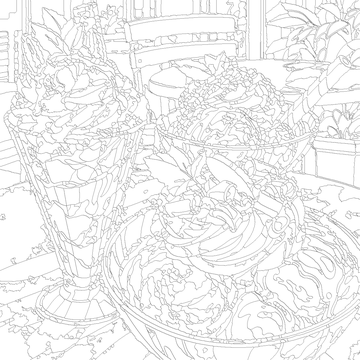
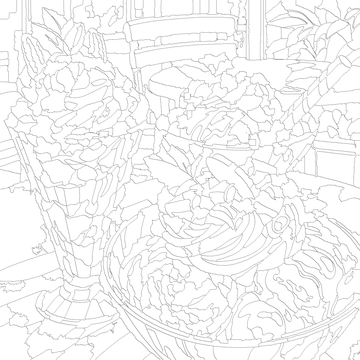
Nivel fácil: ~600 zonas por dibujo

diff --git a/tools/convert.py b/tools/convert.py
@@ -1,6 +1,6 @@
 """Convierte una ilustración en un dibujo "pintar por números" para la app.
 
-Uso: .venv/bin/python convert.py imagen.png salida_id [--colors 140] [--size 1200] [--min-area 60]
+Uso: .venv/bin/python convert.py imagen.png salida_id [--colors 140] [--size 1200] [--min-area 450]
 
 Genera en ../catalog/<salida_id>/:
   regions.png  mapa de zonas (id = R*256 + G)
@@ -16,8 +16,8 @@ ap = argparse.ArgumentParser()
 ap.add_argument('src'); ap.add_argument('name')
 ap.add_argument('--colors', type=int, default=140)
 ap.add_argument('--size', type=int, default=1200)
-ap.add_argument('--min-area', type=int, default=60)
-ap.add_argument('--min-radius', type=float, default=2.0)
+ap.add_argument('--min-area', type=int, default=450)   # ~600 zonas: nivel fácil
+ap.add_argument('--min-radius', type=float, default=3.0)
 a = ap.parse_args()
 
 img = Image.open(a.src).convert('RGB')
